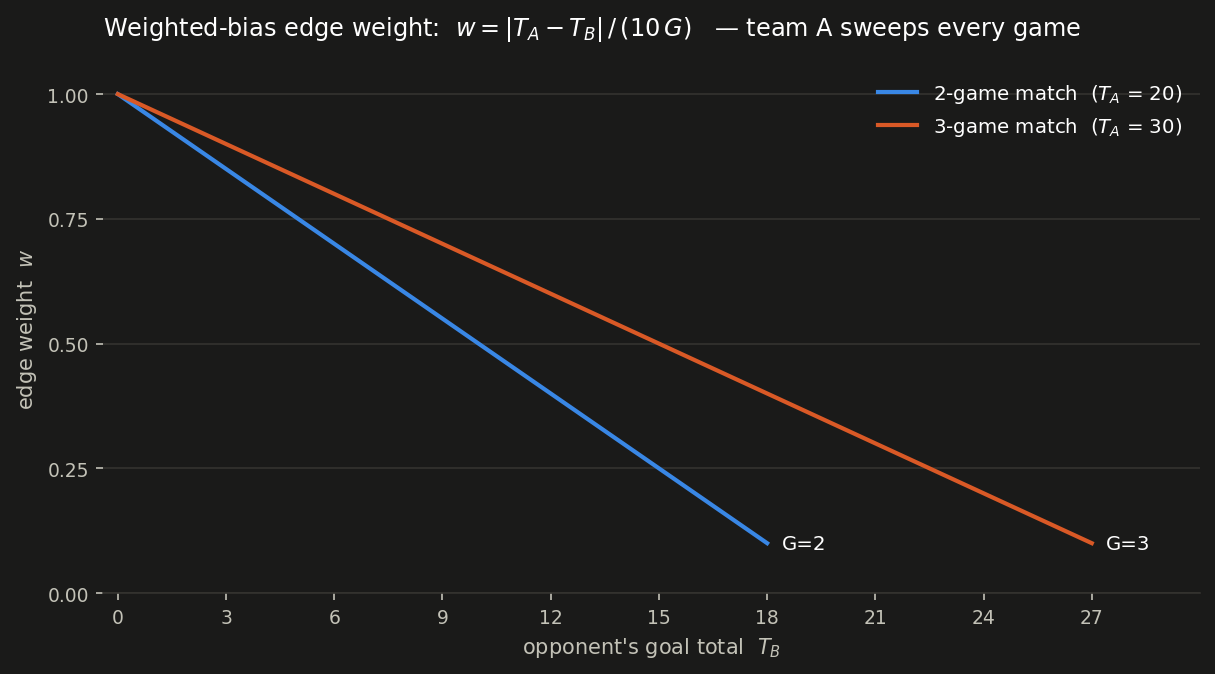
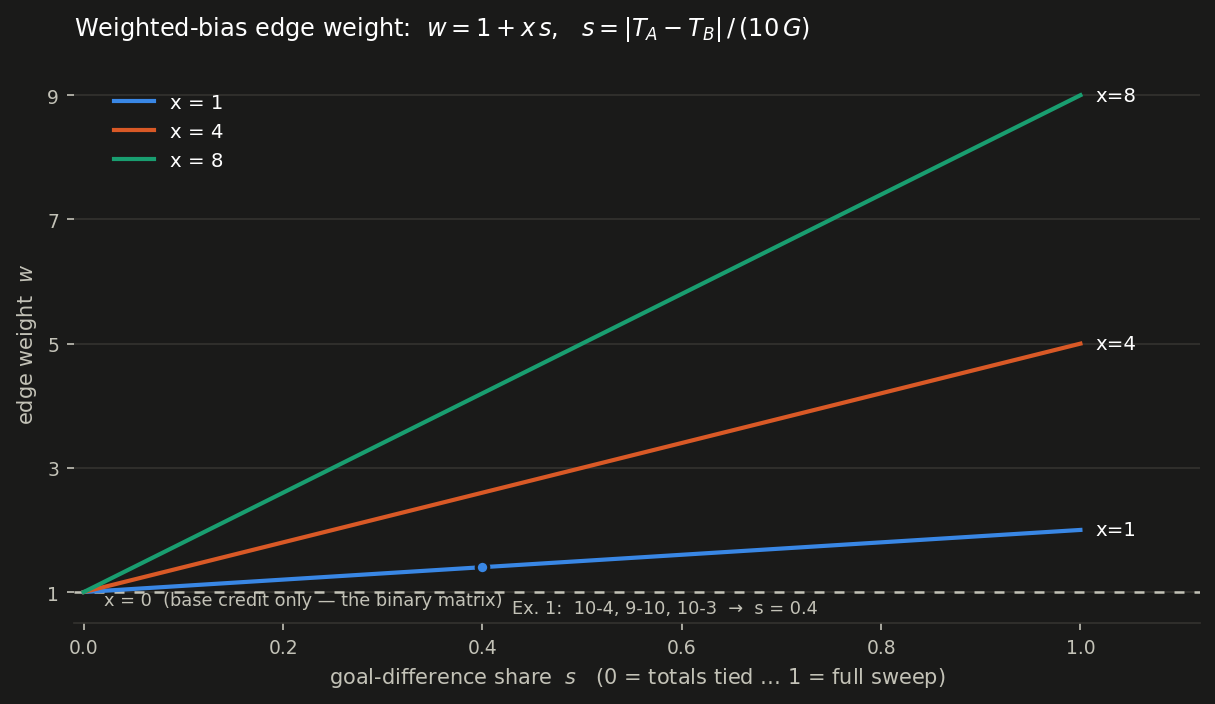
weighted bias: restore 1 + x formulation, x in [0,10); share-axis plot
Back to weight = 1 + x*|totals_A - totals_B|/(games*10) with the x
input in the admin panel (0 = plain binary matrix). The section-3
explanation the user preferred returns (GitHub-safe notation kept).

The figure now demonstrates exactly the extra part in ONE plot: x-axis
is the goal-difference share s = |dT|/(10G), which folds the game count
away entirely, lines w = 1 + x*s for x = 1/4/8 plus the dashed x = 0
baseline, with doc example 1 marked at s = 0.4. HTML companion matches.
Setup section notes that one-match-per-pair is a tournament rule, not
an algorithm limit — repeated pairings accumulate as edge weights.

Live-verified: x=0 gives bit-identical bias scores, x=8 diverges.

diff --git a/score_function/weight_function.html b/score_function/weight_function.html
@@ -43,13 +43,12 @@
             color: var(--text-secondary); font-size: 13px; flex-wrap: wrap; }
   .legend .chip { display: inline-block; width: 14px; height: 3px;
                   border-radius: 2px; vertical-align: middle; margin-right: 6px; }
-  .panels { display: flex; gap: 28px; flex-wrap: wrap; }
-  .panel { flex: 1 1 380px; max-width: 640px; }
-  .panel h2 { font-size: 13px; font-weight: 600; color: var(--text-secondary);
-              margin: 0 0 4px; letter-spacing: .3px; }
+  .panel { max-width: 780px; }
   svg { width: 100%; height: auto; display: block; overflow: visible; }
   .gridline { stroke: var(--grid); stroke-width: 1; }
   .axis { stroke: var(--grid); stroke-width: 1; }
+  .baseline { stroke: var(--text-secondary); stroke-width: 1.2;
+              stroke-dasharray: 5 5; }
   .ticktext { fill: var(--text-secondary); font-size: 11px; }
   .axistitle { fill: var(--text-secondary); font-size: 12px; }
   .line { fill: none; stroke-width: 2; }
@@ -78,119 +77,111 @@
 <body>
 <div class="viz-root">
   <h1>Weighted-bias edge weight — how much a win is worth</h1>
-  <p class="sub">weight <code>w = |T_A − T_B| / (10·G)</code>, team A always
-    wins every game (T_A = 10·G); the x-axis is the opponent's goal total T_B.</p>
+  <p class="sub">weight <code>w = 1 + x·s</code> with the goal-difference share
+    <code>s = |T_A − T_B| / (10·G)</code> — s already folds the game count away
+    (a 2-game 20–8 and a 3-game 30–12 both sit at s&nbsp;=&nbsp;0.6).</p>
   <div class="legend" id="legend"></div>
-  <div class="panels">
-    <div class="panel" style="max-width:760px"><div id="p0"></div></div>
-  </div>
-  <p class="note">Reading it: a shutout (T_B = 0) is worth a full unit of edge
-    weight; the weight falls linearly to 0 as the opponent catches up — dominant
-    wins carry rank flow, nail-biters barely any, totals-ties none. There is no
-    hyperparameter: a global factor would cancel in the PageRank normalization.
-    N.B. the 3-game line is partly theoretical: in a real best-of-three a 3-game
-    winner has conceded a game, so T_A ≤ 29 and T_B ≥ 10.</p>
+  <div class="panel"><div id="p0"></div></div>
+  <p class="note">Reading it: the win itself always earns the base credit 1
+    (the dashed x&nbsp;=&nbsp;0 line — the plain binary matrix); the extra part
+    x·s rewards domination, fanning out to 1&nbsp;+&nbsp;x at a full sweep.
+    Doc example&nbsp;1 (10-4, 9-10, 10-3) lands at s&nbsp;=&nbsp;0.4.</p>
   <details><summary>Data table</summary><div id="tbl"></div></details>
   <div class="tip" id="tip"></div>
 </div>
 <script>
 'use strict';
-const GS = [ { games: 2, ta: 20, bmax: 18 }, { games: 3, ta: 30, bmax: 27 } ];
-const COLS = ['var(--series-1)', 'var(--series-2)'];
-const PANELS = [ { bmax: 27 } ];
-const W = 560, H = 380, ML = 46, MR = 64, MT = 12, MB = 44;
-const YMAX = 1.06, YMIN = 0;
-const weight = (g, b) => (10 * g - b) / (10 * g);
+const XS = [1, 4, 8];
+const COLS = ['var(--series-1)', 'var(--series-2)', 'var(--series-3)'];
+const W = 620, H = 400, ML = 46, MR = 60, MT = 12, MB = 44;
+const YMAX = 9.5, YMIN = 0.5;
+const weight = (x, s) => 1 + x * s;
 const NS = 'http://www.w3.org/2000/svg';
 const el = (t, at) => { const e = document.createElementNS(NS, t);
   for (const k in at) e.setAttribute(k, at[k]); return e; };
 
 // legend (identity never color-alone: chip + text token)
-GS.forEach((g, i) => {
+XS.forEach((x, i) => {
   const s = document.createElement('span');
-  s.innerHTML = '<span class="chip" style="background:' + COLS[i] + '"></span>' +
-                g.games + '-game match (T_A = ' + g.ta + ')';
+  s.innerHTML = '<span class="chip" style="background:' + COLS[i] + '"></span>x = ' + x;
   document.getElementById('legend').appendChild(s);
 });
 
 const tip = document.getElementById('tip');
-PANELS.forEach((P, pi) => {
-  const svg = el('svg', { viewBox: `0 0 ${W} ${H}` });
-  const X = b => ML + (W - ML - MR) * b / P.bmax;
-  const Y = w => MT + (H - MT - MB) * (YMAX - w) / (YMAX - YMIN);
-  for (let w = 0; w <= 1.001; w += 0.25) {           // recessive horizontal grid
-    svg.appendChild(el('line', { x1: ML, y1: Y(w), x2: W - MR, y2: Y(w), class: 'gridline' }));
-    const t = el('text', { x: ML - 8, y: Y(w) + 4, 'text-anchor': 'end', class: 'ticktext' });
-    t.textContent = w.toFixed(2); svg.appendChild(t);
-  }
-  svg.appendChild(el('line', { x1: ML, y1: Y(YMIN), x2: W - MR, y2: Y(YMIN), class: 'axis' }));
-  const step = 3;
-  for (let b = 0; b <= P.bmax; b += step) {
-    const t = el('text', { x: X(b), y: H - MB + 18, 'text-anchor': 'middle', class: 'ticktext' });
-    t.textContent = b; svg.appendChild(t);
-  }
-  const xt = el('text', { x: (ML + W - MR) / 2, y: H - 6, 'text-anchor': 'middle', class: 'axistitle' });
-  xt.textContent = "opponent's goal total  T_B"; svg.appendChild(xt);
-  const yt = el('text', { x: 12, y: MT + 4, class: 'axistitle' });
-  yt.textContent = 'w'; svg.appendChild(yt);
+const svg = el('svg', { viewBox: `0 0 ${W} ${H}` });
+const X = s => ML + (W - ML - MR) * s;
+const Y = w => MT + (H - MT - MB) * (YMAX - w) / (YMAX - YMIN);
+for (let w = 1; w <= 9; w += 2) {                 // recessive horizontal grid
+  svg.appendChild(el('line', { x1: ML, y1: Y(w), x2: W - MR, y2: Y(w), class: 'gridline' }));
+  const t = el('text', { x: ML - 8, y: Y(w) + 4, 'text-anchor': 'end', class: 'ticktext' });
+  t.textContent = w; svg.appendChild(t);
+}
+svg.appendChild(el('line', { x1: ML, y1: Y(YMIN), x2: W - MR, y2: Y(YMIN), class: 'axis' }));
+for (let s = 0; s <= 1.001; s += 0.2) {
+  const t = el('text', { x: X(s), y: H - MB + 18, 'text-anchor': 'middle', class: 'ticktext' });
+  t.textContent = s.toFixed(1); svg.appendChild(t);
+}
+const xt = el('text', { x: (ML + W - MR) / 2, y: H - 6, 'text-anchor': 'middle', class: 'axistitle' });
+xt.textContent = 'goal-difference share  s   (0 = totals tied … 1 = full sweep)';
+svg.appendChild(xt);
+const yt = el('text', { x: 12, y: MT + 4, class: 'axistitle' });
+yt.textContent = 'w'; svg.appendChild(yt);
 
-  GS.forEach((g, i) => {                       // 2px lines, fixed hue order
-    const pts = [];
-    for (let b = 0; b <= g.bmax; b++) pts.push(X(b) + ',' + Y(weight(g.games, b)));
-    svg.appendChild(el('polyline', { points: pts.join(' '), class: 'line',
-                                     stroke: COLS[i] }));
-    // selective direct label at the line's right end (text token + chip)
-    const lx = X(g.bmax), ly = Y(weight(g.games, g.bmax));
-    svg.appendChild(el('line', { x1: lx + 5, y1: ly, x2: lx + 17, y2: ly,
-                                 stroke: COLS[i], class: 'dlbl-chip' }));
-    const dl = el('text', { x: lx + 21, y: ly + 4, class: 'dlbl' });
-    dl.textContent = 'G=' + g.games; svg.appendChild(dl);
-  });
+// x = 0 baseline: the plain binary matrix
+svg.appendChild(el('line', { x1: ML, y1: Y(1), x2: W - MR, y2: Y(1), class: 'baseline' }));
+const bl = el('text', { x: ML + 6, y: Y(1) + 15, class: 'ticktext' });
+bl.textContent = 'x = 0  (base credit only)'; svg.appendChild(bl);
 
-  // hover layer: crosshair + shared tooltip, hit target = whole plot area
-  const cross = el('line', { y1: MT, y2: H - MB, class: 'crosshair' });
-  svg.appendChild(cross);
-  const dots = GS.map((g, i) => { const d = el('circle', { r: 4.5, fill: COLS[i],
-    class: 'hoverdot' }); svg.appendChild(d); return d; });
-  const hit = el('rect', { x: ML, y: MT, width: W - ML - MR, height: H - MT - MB,
-                           fill: 'transparent' });
-  svg.appendChild(hit);
-  hit.addEventListener('mousemove', ev => {
-    const r = svg.getBoundingClientRect();
-    const fx = (ev.clientX - r.left) / r.width * W;
-    const b = Math.max(0, Math.min(P.bmax, Math.round((fx - ML) / (W - ML - MR) * P.bmax)));
-    cross.setAttribute('x1', X(b)); cross.setAttribute('x2', X(b));
-    cross.style.opacity = 1;
-    let html = '<div style="color:var(--text-secondary)">T_B = ' + b + '</div>';
-    GS.forEach((g, i) => {
-      if (b > g.bmax) { dots[i].style.opacity = 0; return; }
-      const w = weight(g.games, b);
-      dots[i].setAttribute('cx', X(b)); dots[i].setAttribute('cy', Y(w));
-      dots[i].style.opacity = 1;
-      html += '<div><span class="chip" style="background:' + COLS[i] + '"></span>' +
-              g.games + ' games: <b>w = ' + w.toFixed(3) + '</b></div>';
-    });
-    tip.innerHTML = html;
-    tip.style.opacity = 1;
-    tip.style.left = Math.min(ev.clientX + 14, innerWidth - 190) + 'px';
-    tip.style.top = (ev.clientY + 12) + 'px';
-  });
-  hit.addEventListener('mouseleave', () => {
-    cross.style.opacity = 0; tip.style.opacity = 0;
-    dots.forEach(d => d.style.opacity = 0);
-  });
-  document.getElementById('p' + pi).appendChild(svg);
+XS.forEach((x, i) => {                            // 2px lines, fixed hue order
+  svg.appendChild(el('polyline', { class: 'line', stroke: COLS[i],
+    points: X(0) + ',' + Y(1) + ' ' + X(1) + ',' + Y(1 + x) }));
+  const ly = Y(1 + x);                            // direct label at the end
+  svg.appendChild(el('line', { x1: X(1) + 5, y1: ly, x2: X(1) + 17, y2: ly,
+                               stroke: COLS[i], class: 'dlbl-chip' }));
+  const dl = el('text', { x: X(1) + 21, y: ly + 4, class: 'dlbl' });
+  dl.textContent = 'x=' + x; svg.appendChild(dl);
 });
 
-// table view (accessibility fallback)
-let th = '<table><tr><th>T_B</th>';
-GS.forEach(g => th += '<th>G=' + g.games + '</th>');
-th += '</tr>';
-for (let b = 0; b <= 27; b += 3) {
-  th += '<tr><td>' + b + '</td>';
-  GS.forEach(g => {
-    th += '<td>' + (b <= g.bmax ? weight(g.games, b).toFixed(3) : '—') + '</td>';
+// hover layer: crosshair + shared tooltip over the whole plot area
+const cross = el('line', { y1: MT, y2: H - MB, class: 'crosshair' });
+svg.appendChild(cross);
+const dots = XS.map((x, i) => { const d = el('circle', { r: 4.5, fill: COLS[i],
+  class: 'hoverdot' }); svg.appendChild(d); return d; });
+const hit = el('rect', { x: ML, y: MT, width: W - ML - MR, height: H - MT - MB,
+                         fill: 'transparent' });
+svg.appendChild(hit);
+hit.addEventListener('mousemove', ev => {
+  const r = svg.getBoundingClientRect();
+  const fx = (ev.clientX - r.left) / r.width * W;
+  const s = Math.max(0, Math.min(1, (fx - ML) / (W - ML - MR)));
+  cross.setAttribute('x1', X(s)); cross.setAttribute('x2', X(s));
+  cross.style.opacity = 1;
+  let html = '<div style="color:var(--text-secondary)">s = ' + s.toFixed(2) + '</div>';
+  XS.forEach((x, i) => {
+    const w = weight(x, s);
+    dots[i].setAttribute('cx', X(s)); dots[i].setAttribute('cy', Y(w));
+    dots[i].style.opacity = 1;
+    html += '<div><span class="chip" style="background:' + COLS[i] + '"></span>' +
+            'x = ' + x + ': <b>w = ' + w.toFixed(2) + '</b></div>';
   });
+  tip.innerHTML = html;
+  tip.style.opacity = 1;
+  tip.style.left = Math.min(ev.clientX + 14, innerWidth - 180) + 'px';
+  tip.style.top = (ev.clientY + 12) + 'px';
+});
+hit.addEventListener('mouseleave', () => {
+  cross.style.opacity = 0; tip.style.opacity = 0;
+  dots.forEach(d => d.style.opacity = 0);
+});
+document.getElementById('p0').appendChild(svg);
+
+// table view (accessibility fallback)
+let th = '<table><tr><th>s</th>';
+XS.forEach(x => th += '<th>x=' + x + '</th>');
+th += '</tr>';
+for (let s = 0; s <= 1.001; s += 0.1) {
+  th += '<tr><td>' + s.toFixed(1) + '</td>';
+  XS.forEach(x => th += '<td>' + weight(x, s).toFixed(2) + '</td>');
   th += '</tr>';
 }
 document.getElementById('tbl').innerHTML = th + '</table>';

diff --git a/slowmo_cam.cpp b/slowmo_cam.cpp
@@ -1738,19 +1738,18 @@ struct ScoreBoard {
         msgs.push("scoreboard: seeded demo tournament (last year's group A) -> " + file);
     }
 
-    // "weighted bias" edge weight of one match: the goal-difference share
-    //   x * |totals_winner - totals_loser| / (games * 10)
-    // x stays pinned at 1: as a global factor it cancels in the PageRank
-    // normalization anyway — only the relative spread between narrow and
-    // dominant wins reaches the ranking. (POST /scores/x still exists for
-    // experiments, provably without effect.) A match without recorded
-    // game scores counts as a plain binary edge; a totals-tied match
-    // contributes nothing.
+    // "weighted bias" edge weight of one match:
+    //   1 + x * |totals_winner - totals_loser| / (games * 10)
+    // The win itself always earns the base credit of 1 (a pure scale
+    // would cancel in the PageRank normalization); x in [0, 10) tunes
+    // how much extra a dominant goal difference adds on top (x = 0 is
+    // the plain binary matrix). A match without recorded game scores is
+    // just the base credit.
     double weight_of(const Match &mt) const {
         if (mt.games.empty()) return 1.0;
         int ta = 0, tb = 0;
         for (const auto &g : mt.games) { ta += g.a; tb += g.b; }
-        return weight_x * std::abs(ta - tb) / (mt.games.size() * 10.0);
+        return 1.0 + weight_x * std::abs(ta - tb) / (mt.games.size() * 10.0);
     }
 
     void recompute_locked() {
@@ -2565,6 +2564,8 @@ button:disabled{opacity:.4;cursor:default}
 #dwrap{display:flex;align-items:center;gap:5px;font-size:12px;color:#8b96a5;white-space:nowrap}
 #dwrap input[type=range]{width:52px;accent-color:#3b82f6}
 #dwrap input[type=number]{width:46px;background:#141a21;border:1px solid #1c2530;color:#e6e9ee;border-radius:6px;padding:3px 4px;font:inherit;font-size:12px}
+#xwrap{display:flex;align-items:center;gap:5px;font-size:12px;color:#8b96a5;white-space:nowrap}
+#xwrap input{width:46px;background:#141a21;border:1px solid #1c2530;color:#e6e9ee;border-radius:6px;padding:3px 4px;font:inherit;font-size:12px}
 #scorepane tbody tr{cursor:pointer}
 #scorepane tbody tr:hover td,#scorepane tr.sel td{background:#141a21}
 #detail{background:#141a21;border:1px solid #1c2530;border-radius:10px;padding:12px;margin-top:10px;font-size:14px}
@@ -2650,11 +2651,13 @@ kbd{background:#1c2530;border-radius:4px;padding:1px 5px;font-size:12px}
 <h2>Tournament</h2>
 <div id="algsw" hidden>
 <button id="algb" class="on" title="bias PageRank (binary win matrix)">Bias</button>
-<button id="algw" title="bias PageRank on the goal-difference-weighted matrix: |totals A - totals B|/(games*10)">Weighted</button>
+<button id="algw" title="bias PageRank on the goal-difference-weighted matrix: 1 + x*|totals A - totals B|/(games*10)">Weighted</button>
 <button id="algp" title="classic PageRank (binary win matrix)">Classic</button>
 <label id="dwrap" title="PageRank damping factor d (admin only, not persisted)">d
 <input id="dsl" type="range" min="0" max="0.99" step="0.01" value="0.85">
 <input id="dnum" type="number" min="0" max="0.99" step="0.01" value="0.85"></label>
+<label id="xwrap" title="weighted-bias hyperparameter x in [0, 10): extra credit for goal difference, 0 = plain binary (admin only, not persisted)">x
+<input id="xnum" type="number" min="0" max="9.99" step="0.5" value="1"></label>
 </div>
 <table><thead><tr><th>#</th><th>team</th><th>score</th><th>W</th><th>L</th></tr></thead><tbody id="tb"></tbody></table>
 <div id="konote"></div>
@@ -3128,6 +3131,7 @@ async function scores(){try{const s=await(await fetch('/scores')).json();
  if(k!==impKey){impKey=k;impacts();}          // else: keep the stored impacts
  if(S.d!==undefined&&document.activeElement!==$('dsl')&&document.activeElement!==$('dnum')){
   $('dsl').value=S.d;$('dnum').value=(+S.d).toFixed(2);} // don't fight the editing hand
+ if(S.x!==undefined&&document.activeElement!==$('xnum'))$('xnum').value=S.x;
  renderTable();renderDetail();rankhist();}catch(e){}}
 $('algb').onclick=()=>{alg='bias';renderTable();renderDetail();};
 $('algp').onclick=()=>{alg='plain';renderTable();renderDetail();};
@@ -3137,6 +3141,9 @@ $('dsl').onchange=()=>post('/scores/d?value='+$('dsl').value);
 $('dnum').onchange=()=>{let v=parseFloat($('dnum').value);
  if(isNaN(v))v=0.85;v=Math.max(0,Math.min(0.99,v));
  $('dnum').value=v.toFixed(2);$('dsl').value=v;post('/scores/d?value='+v);};
+$('xnum').onchange=()=>{let v=parseFloat($('xnum').value);
+ if(isNaN(v))v=1;v=Math.max(0,Math.min(9.99,v));
+ $('xnum').value=v;post('/scores/x?value='+v);};
 $('af').addEventListener('submit',async e=>{e.preventDefault();
  try{const r=await(await fetch('/scores/add?a='+encodeURIComponent($('ta').value)
   +'&b='+encodeURIComponent($('tb2').value)

diff --git a/score_function/README.md b/score_function/README.md
@@ -15,7 +15,10 @@ M_{ij} = \#\{\text{matches team } i \text{ won against team } j\},
 
 so row $i$ holds team $i$'s wins and column $j$ holds team $j$'s losses.
 Each win is a *link from the loser to the winner*: rank flows from the
-defeated to the victor.
+defeated to the victor. In our tournament every pair plays **at most one
+match**, so the entries are 0 or 1 in practice — but nothing in the
+algorithms requires that: repeated pairings simply accumulate as larger
+entries (edge weights), and PageRank handles them as-is.
 
 ## 1. Classic PageRank
 
@@ -83,37 +86,42 @@ Same algorithm as §2, run on a **goal-difference-weighted matrix** $W$
 instead of the binary $M$. A match between $A$ and $B$ with game totals
 $T_A, T_B$ over $G$ games carries the weight
 
-$$w = \frac{|T_A - T_B|}{10 G},$$
+$$w = 1 + x\frac{|T_A - T_B|}{10G},
+\qquad x \in [0, 10),$$
 
 which is added to the winner's entry: the new value of
 $W_{\text{winner},\text{loser}}$ is the old one plus $w$.
 
-<picture>
-  <source media="(prefers-color-scheme: dark)" srcset="weight_function_dark.png">
-  <img alt="Edge weight vs opponent goal total for 2- and 3-game sweeps: both lines fall linearly from 1 at a shutout to 0 as the opponent catches up"
-       src="weight_function_light.png">
-</picture>
-
-*(Generated by matplotlib; the interactive version with hover readouts is
-[`weight_function.html`](weight_function.html). The 3-game line is partly
-theoretical — a real best-of-three winner playing 3 games concedes one,
-so $T_A \le 29$ and $T_B \ge 10$.)*
-
-A dominant sweep is worth up to a full unit of edge weight, a nail-biter
-almost nothing, and a totals-tied match contributes zero. There is no
-tunable hyperparameter: any global factor $x$ on this weight cancels
-exactly, because both the column normalization
+The constant $1$ is the base credit for the win itself; the second term
+rewards domination, tuned by the hyperparameter $x$. Setting $x$ to 0
+effectively converts it back to the previous binary approach. The base
+credit is essential: a *pure* scaling weight $x|T_A-T_B|/(10G)$ would
+cancel entirely, because both the column normalization
 
 $$\widehat{W}_{ij} = W_{ij}/\max(c_j,1)$$
 
 **and** the participation baseline $p$ are ratios — multiplying every
 edge by the same constant changes neither. Only the *relative* spread
-between narrow and dominant wins reaches the ranking, so the
-implementation keeps $x$ pinned at $1$ (the `/scores/x` endpoint still
-exists, provably without effect).
+between narrow and dominant wins survives, which is exactly what $x$
+controls: at small $x$ the ranking hugs plain bias PageRank; at large
+$x$, sweeping 10–0 outweighs grinding out 10–9.
 
-A match with no recorded game scores contributes a plain binary edge of
-weight $1$. Matches and $d$ are wired through `compute_scores.py`; the
+The plot demonstrates how the extra part affects the weight. On the
+x-axis is the **goal-difference share** $s = |T_A-T_B|/(10G)$, which
+already folds the game count away (a 2-game 20–8 and a 3-game 30–12 sit
+at the same $s = 0.6$); the lines are $w = 1 + x s$:
+
+<picture>
+  <source media="(prefers-color-scheme: dark)" srcset="weight_function_dark.png">
+  <img alt="Edge weight versus goal-difference share: lines w = 1 + x*s for x = 0, 1, 4, 8, all starting at the base credit 1 and fanning out to 1+x at a full sweep"
+       src="weight_function_light.png">
+</picture>
+
+*(Generated by matplotlib; the interactive version with hover readouts is
+[`weight_function.html`](weight_function.html).)*
+
+A match with no recorded game scores contributes the base credit $1$
+only. Matches, $d$ and $x$ are wired through `compute_scores.py`; the
 two algorithm files remain the single source of truth for the math.
 
 ## BONUS: Recursive deletion (the fully-connected-graph approach)

diff --git a/README.md b/README.md
@@ -116,12 +116,13 @@ are the single source of truth — edit them and the board follows
 (`recursive_deletion` is deliberately not applied mid-tournament).
 A third ranking, **weighted bias**, runs the bias algorithm on a
 goal-difference-weighted matrix: each match's edge weight is
-`|totals_A − totals_B| / (games·10)` — dominant wins carry more rank
-flow, ties carry none (a global factor on this weight would cancel in
-the PageRank normalization, so there is no hyperparameter; see
-`score_function/README.md`). The bias/weighted/classic switch and the
-damping-d slider (default 0.85, not persisted) are visible to the
-`admin` login only and admin-gated server-side.
+`1 + x·|totals_A − totals_B| / (games·10)` — the win itself always earns
+the base credit, and hyperparameter `x ∈ [0, 10)` (`POST /scores/x`,
+0 = plain binary) tunes how much a dominant goal difference adds on top
+(see `score_function/README.md`). The bias/weighted/classic switch, the
+damping-d slider (default 0.85) and the x input are visible to the
+`admin` login only and admin-gated server-side; neither d nor x is
+persisted.
 
 One big group; a match is **best of three** to 10; **each pair plays at most
 once**. Enter *team A*, *team B*, game scores from A's view
